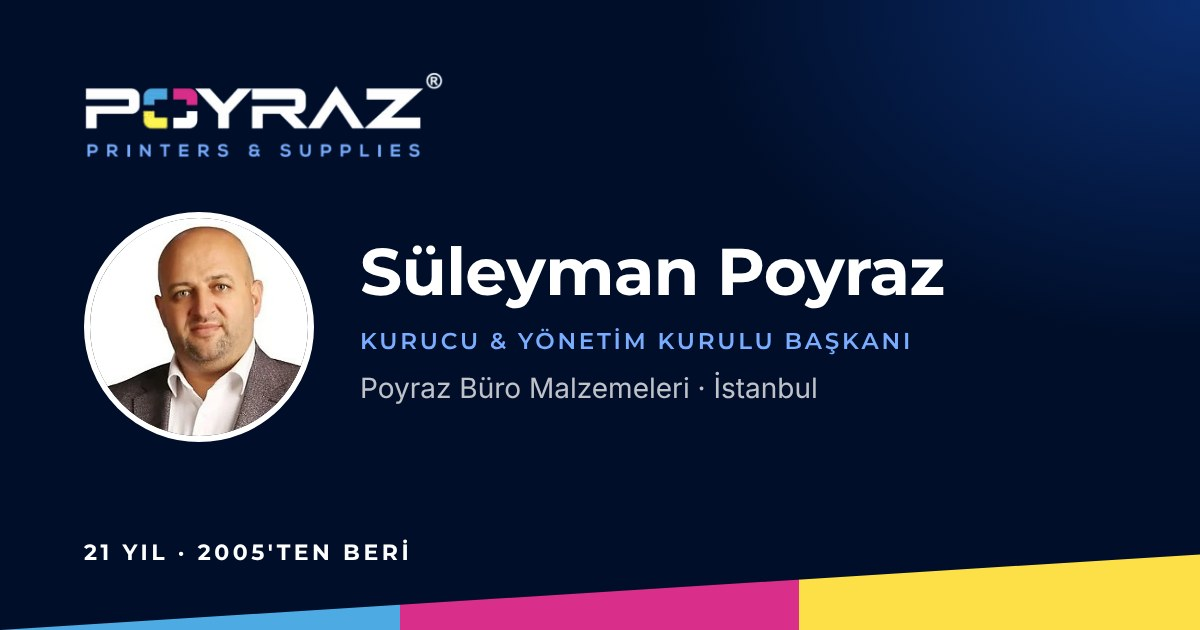
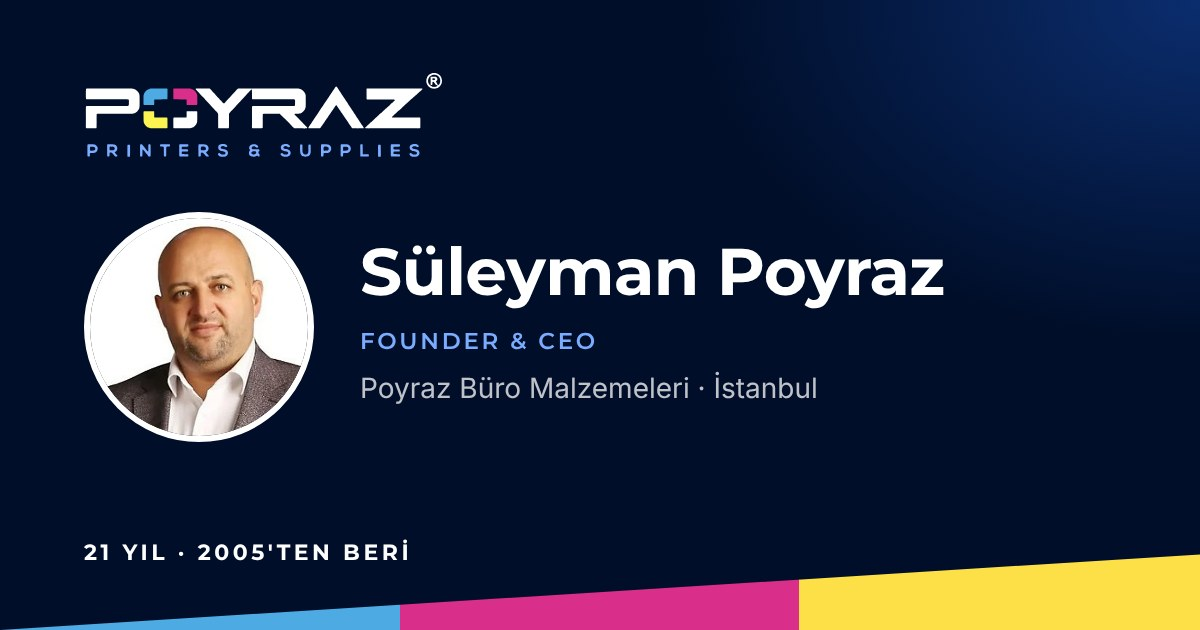
Update title to Founder & CEO

diff --git a/tr/suleyman/index.html b/tr/suleyman/index.html
@@ -4,13 +4,13 @@
 <meta charset="utf-8">
 <meta name="viewport" content="width=device-width,initial-scale=1,viewport-fit=cover">
 <title>Süleyman Poyraz – Poyraz Büro Malzemeleri</title>
-<meta name="description" content="Süleyman Poyraz, Kurucu &amp; Yönetim Kurulu Başkanı – Poyraz Büro Malzemeleri Dış Tic. Ltd. Şti..">
+<meta name="description" content="Süleyman Poyraz, Founder &amp; CEO – Poyraz Büro Malzemeleri Dış Tic. Ltd. Şti..">
 <meta name="robots" content="noindex">
 <meta name="theme-color" content="#000E29">
 <meta property="og:type" content="profile">
 <meta property="og:site_name" content="Poyraz Büro Malzemeleri">
 <meta property="og:title" content="Süleyman Poyraz – Poyraz Büro Malzemeleri">
-<meta property="og:description" content="Kurucu &amp; Yönetim Kurulu Başkanı · Poyraz Büro Malzemeleri · İstanbul">
+<meta property="og:description" content="Founder &amp; CEO · Poyraz Büro Malzemeleri · İstanbul">
 <meta property="og:url" content="https://poyraztechnology.github.io/Catalogue/tr/suleyman/">
 <meta property="og:image" content="https://poyraztechnology.github.io/Catalogue/tr/suleyman/share.jpg">
 <meta property="og:image:width" content="1200">
@@ -210,7 +210,7 @@ background:var(--navy);color:#fff;font-size:13.5px;font-weight:500;padding:11px 
     <section class="who">
       <img class="photo" src="photo.jpg" alt="Süleyman Poyraz" width="122" height="122">
       <h1>Süleyman Poyraz</h1>
-      <p class="role"><span>Kurucu &amp; Yönetim Kurulu Başkanı</span></p>
+      <p class="role"><span>Founder &amp; CEO</span></p>
       <p class="co">Poyraz Büro Malzemeleri · İstanbul</p>
     </section>
     <section class="actions">
